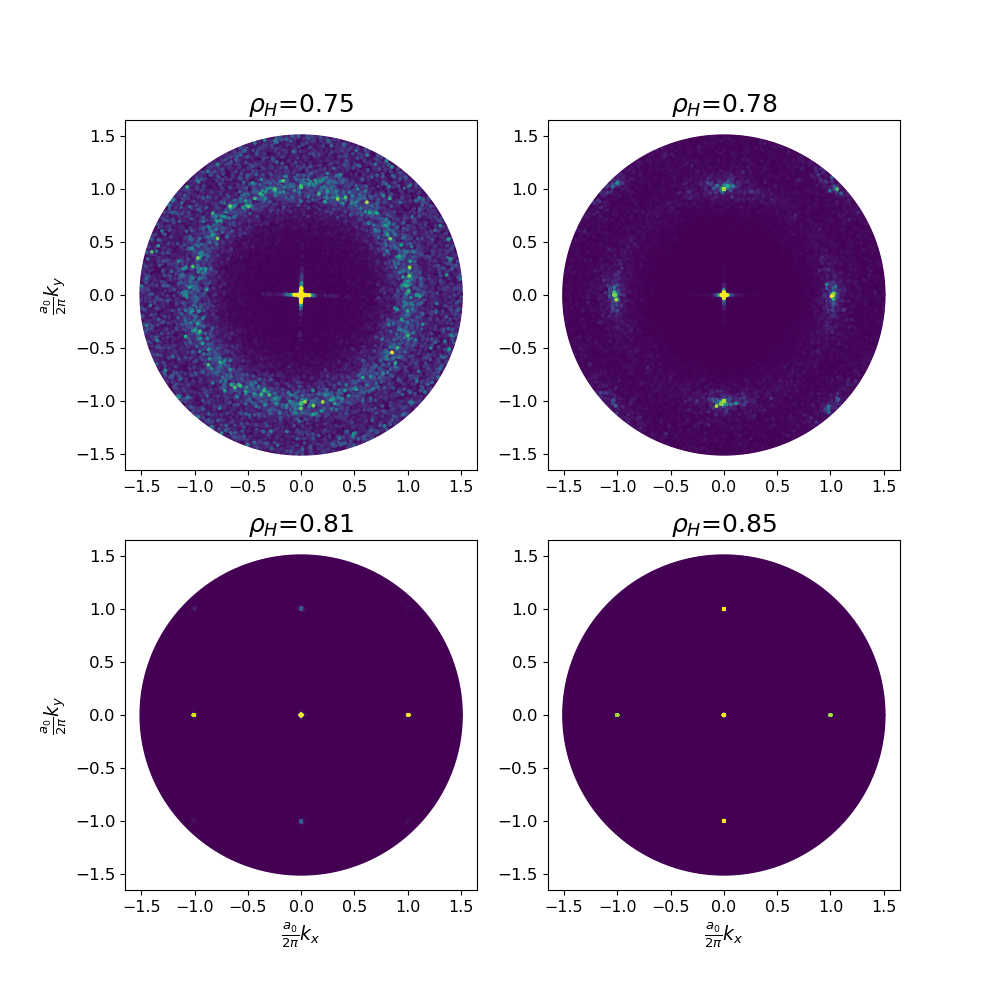
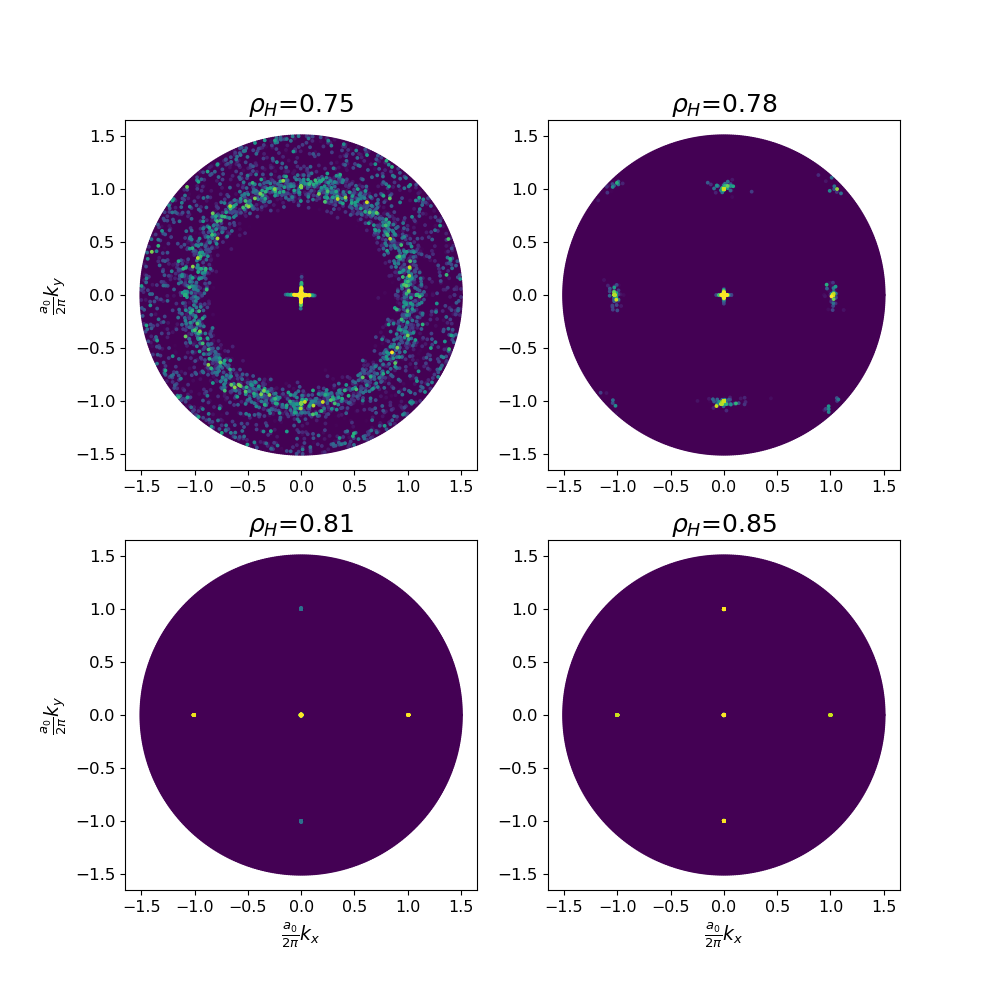
Trying log scaled Bragg peaks

diff --git a/create_all_graphs.py b/create_all_graphs.py
@@ -577,7 +577,8 @@ def plot_color_bargg_peaks(rhoH_vec, bragg_type='Bragg_S', save=False, load=True
             idx = S.argsort()
             kx, ky, S = kx[idx], ky[idx], S[idx]
         vmax = np.max([S_ for (k_, S_) in zip(np.sqrt(kx ** 2 + ky ** 2), S) if k_ > 0.5 * k_ideal])
-        plt.scatter(a_0 * kx / (2 * np.pi), a_0 * ky / (2 * np.pi), c=S, s=3, vmin=0, vmax=vmax)
+        # plt.scatter(a_0 * kx / (2 * np.pi), a_0 * ky / (2 * np.pi), c=S, s=3, vmin=0, vmax=vmax)
+        plt.scatter(a_0 * kx / (2 * np.pi), a_0 * ky / (2 * np.pi), c=np.log(S), s=3, vmin=0, vmax=np.log(vmax))
         if save:
             # append([k[0], k[1], S_])
             np.savetxt(load_save_path,
